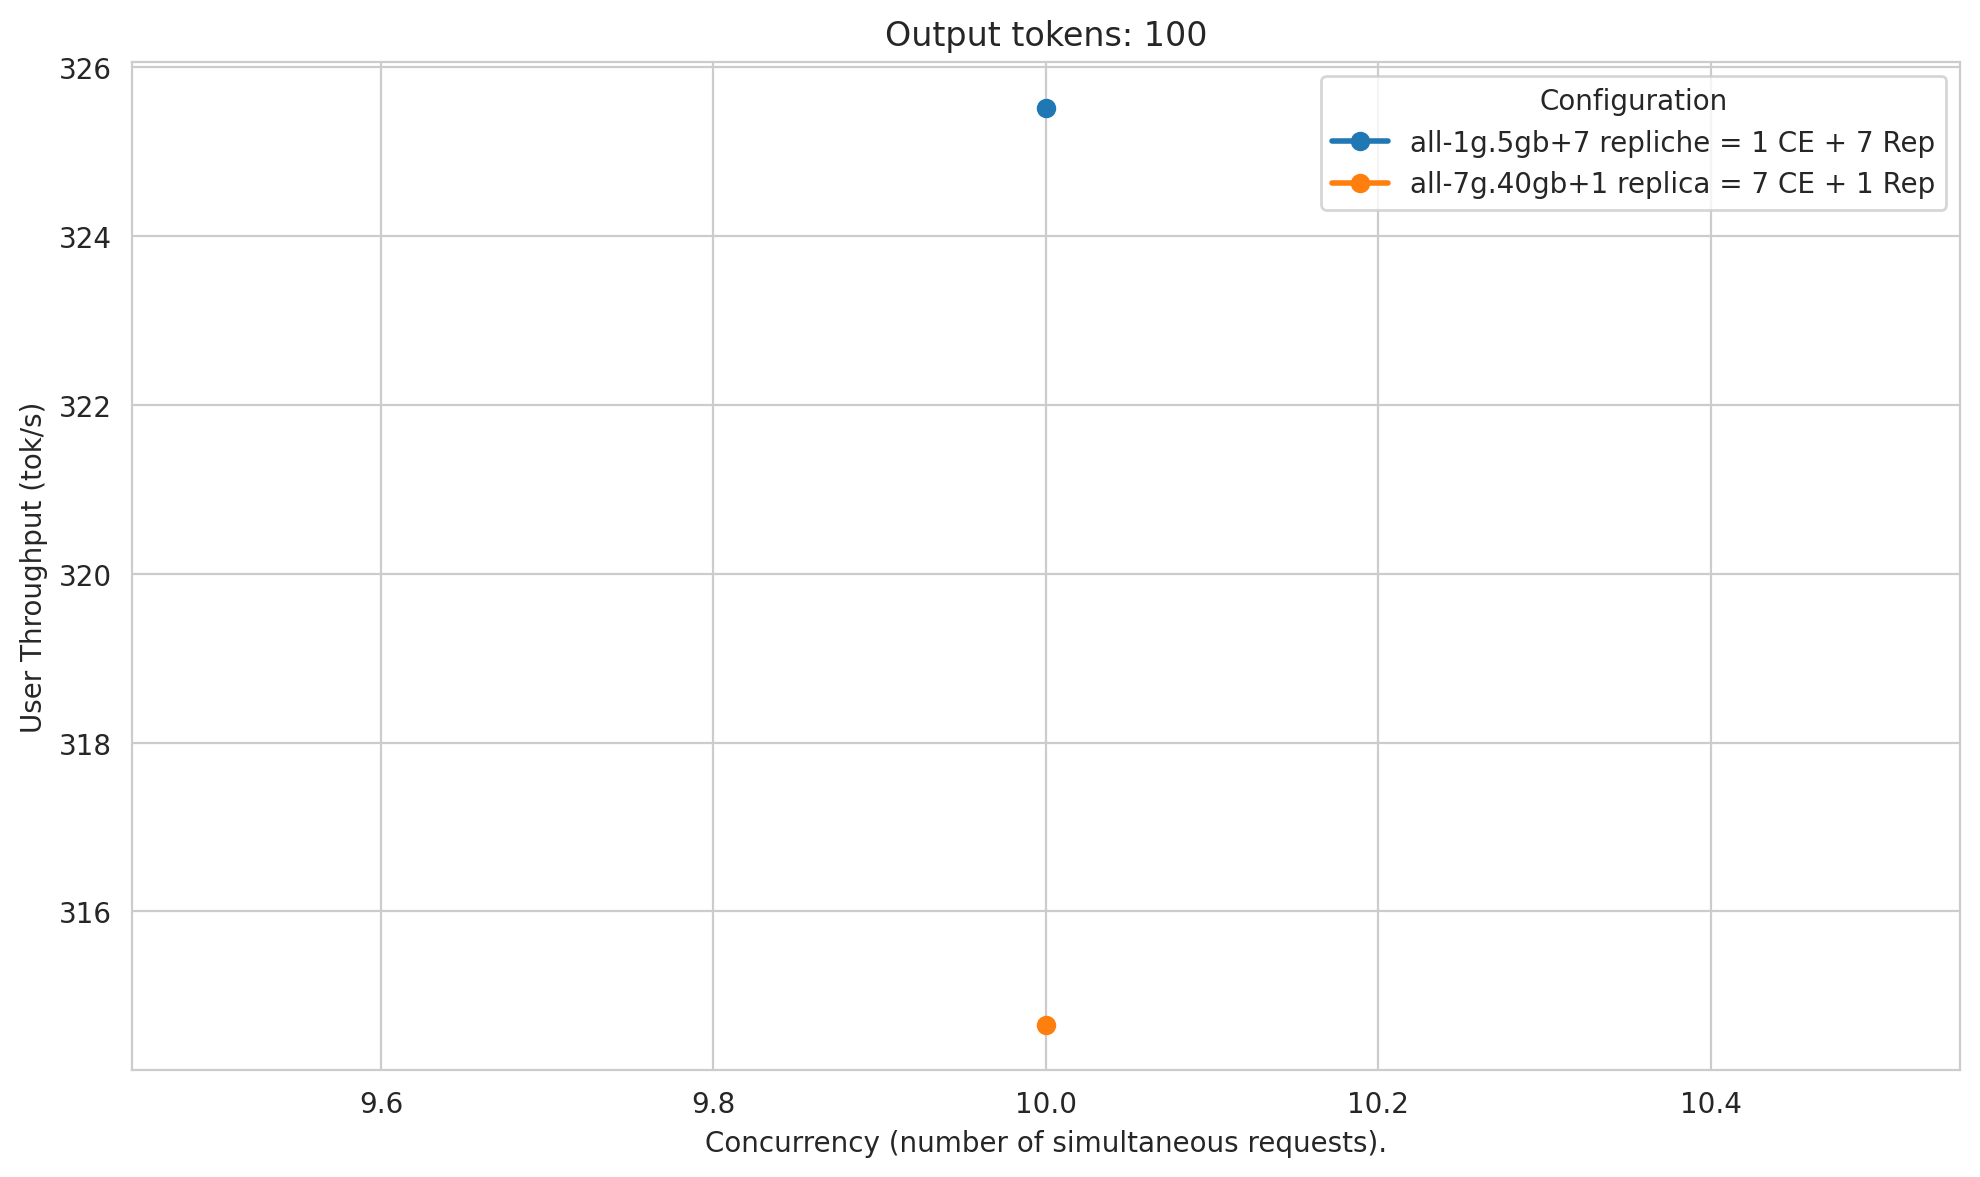
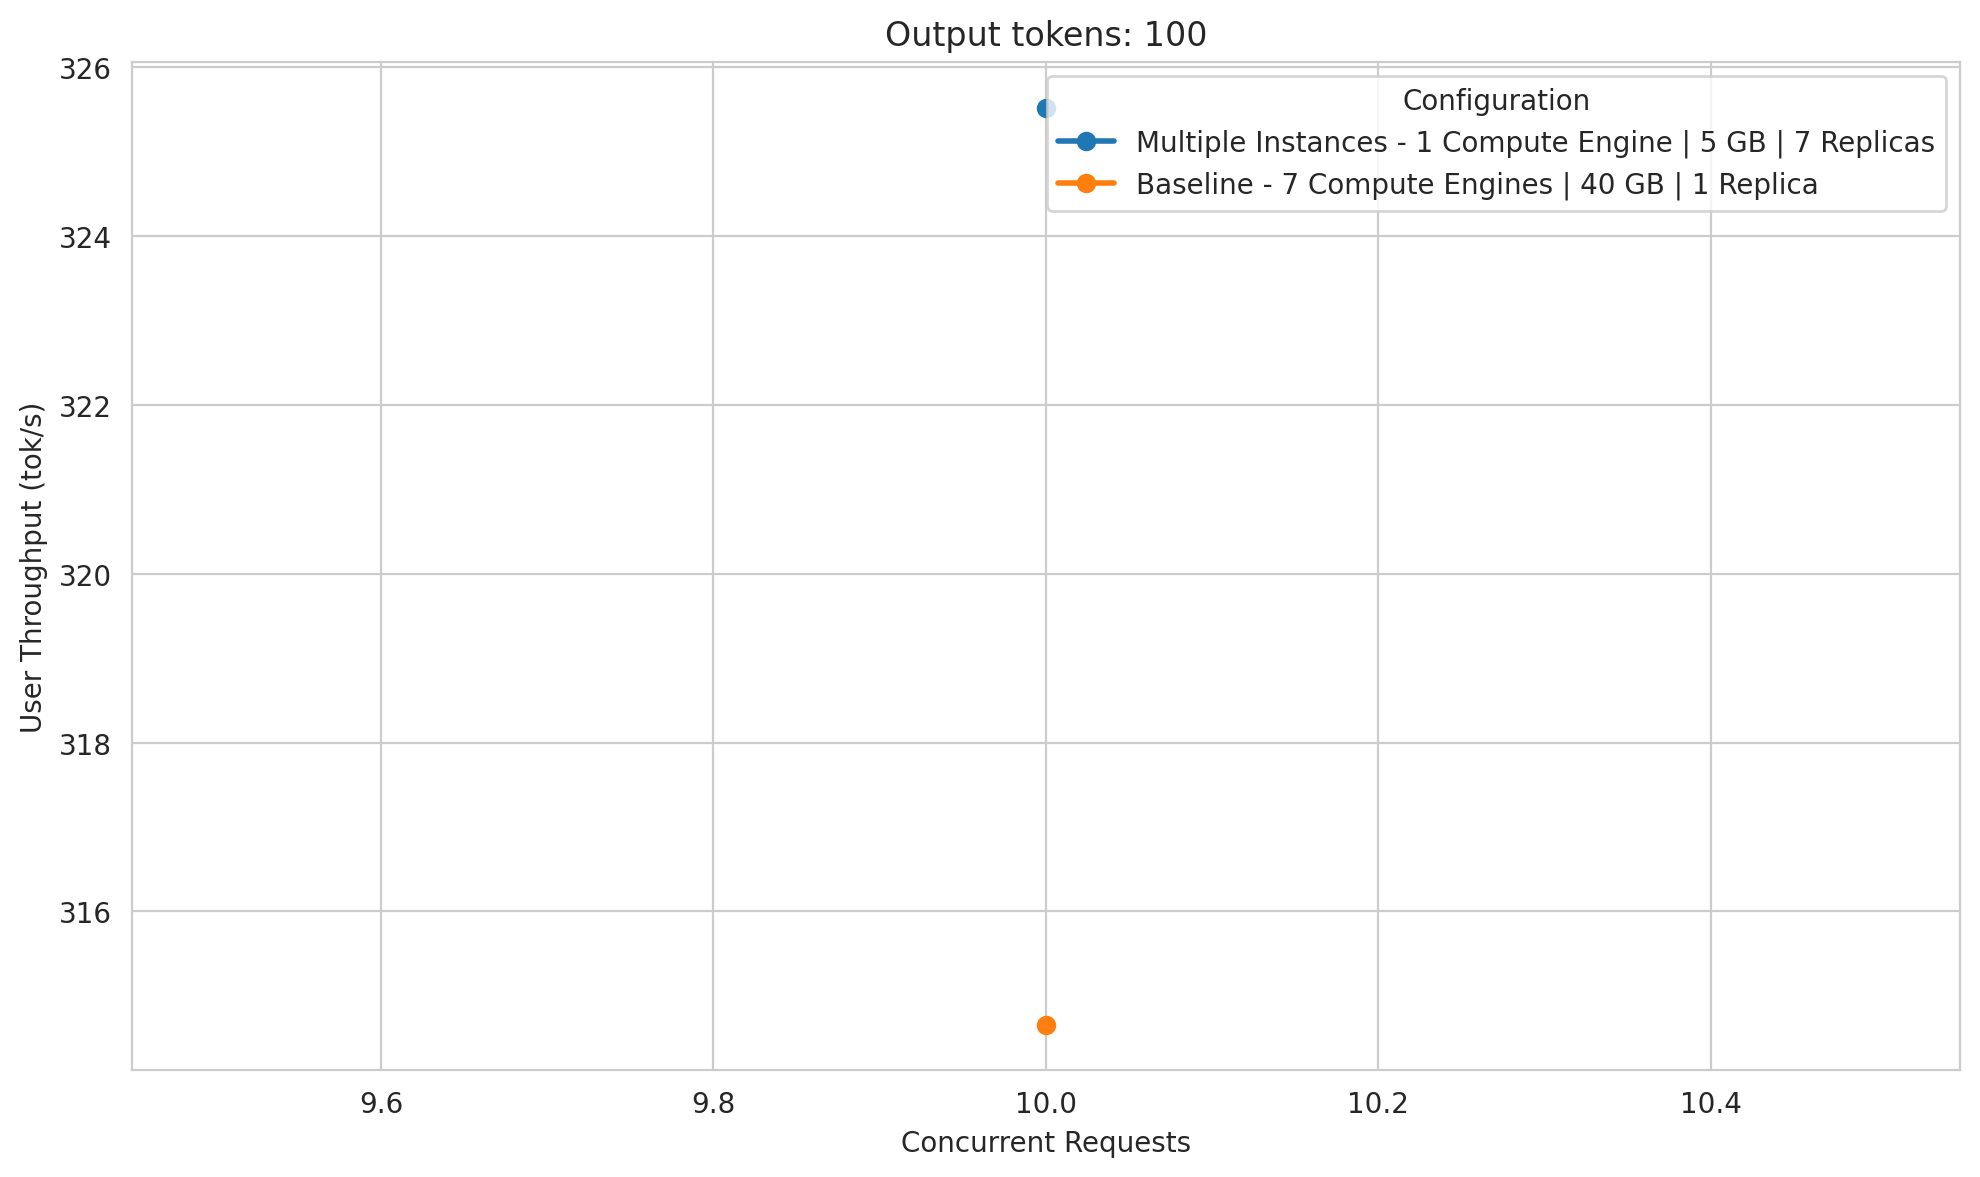
plot fix

Changed region(s): [[0.5237, 0.0612, 0.9859, 0.1835], [0.3697, 0.9482, 0.7086, 0.9788]]

diff --git a/scripts/plot.py b/scripts/plot.py
@@ -12,10 +12,24 @@ OUTPUT_DIR = BASE_DIR / "results" / "plots"
 
 
 def format_configuration_label(mig_config: str, ollama_replicas: int) -> str:
-	match = re.search(r"(\d+)g", mig_config)
-	ce_count = match.group(1) if match else mig_config
-	replica_word = "replica" if ollama_replicas == 1 else "repliche"
-	return f"{mig_config}+{ollama_replicas} {replica_word} = {ce_count} CE + {ollama_replicas} Rep"
+	# "all-balanced" is the 3g.20gb profile used in the experiment.
+	profile = "3g.20gb" if mig_config == "all-balanced" else mig_config.removeprefix("all-")
+	match = re.fullmatch(r"(\d+)g\.(\d+)gb", profile)
+	if not match:
+		return f"{mig_config}: {ollama_replicas} Replicas"
+
+	compute_engines, memory_gb = match.groups()
+	nicknames = {
+		("1g.5gb", 7): "Multiple Instances",
+		("3g.20gb", 1): "Restricted Instance",
+		("7g.40gb", 7): "Time-Sharing",
+		("7g.40gb", 1): "Baseline",
+	}
+	nickname = nicknames.get((profile, ollama_replicas))
+	engine_word = "Compute Engine" if compute_engines == "1" else "Compute Engines"
+	replica_word = "Replica" if ollama_replicas == 1 else "Replicas"
+	label = f"{compute_engines} {engine_word} | {memory_gb} GB | {ollama_replicas} {replica_word}"
+	return f"{nickname} - {label}" if nickname else label
 
 
 def load_results() -> pd.DataFrame:
